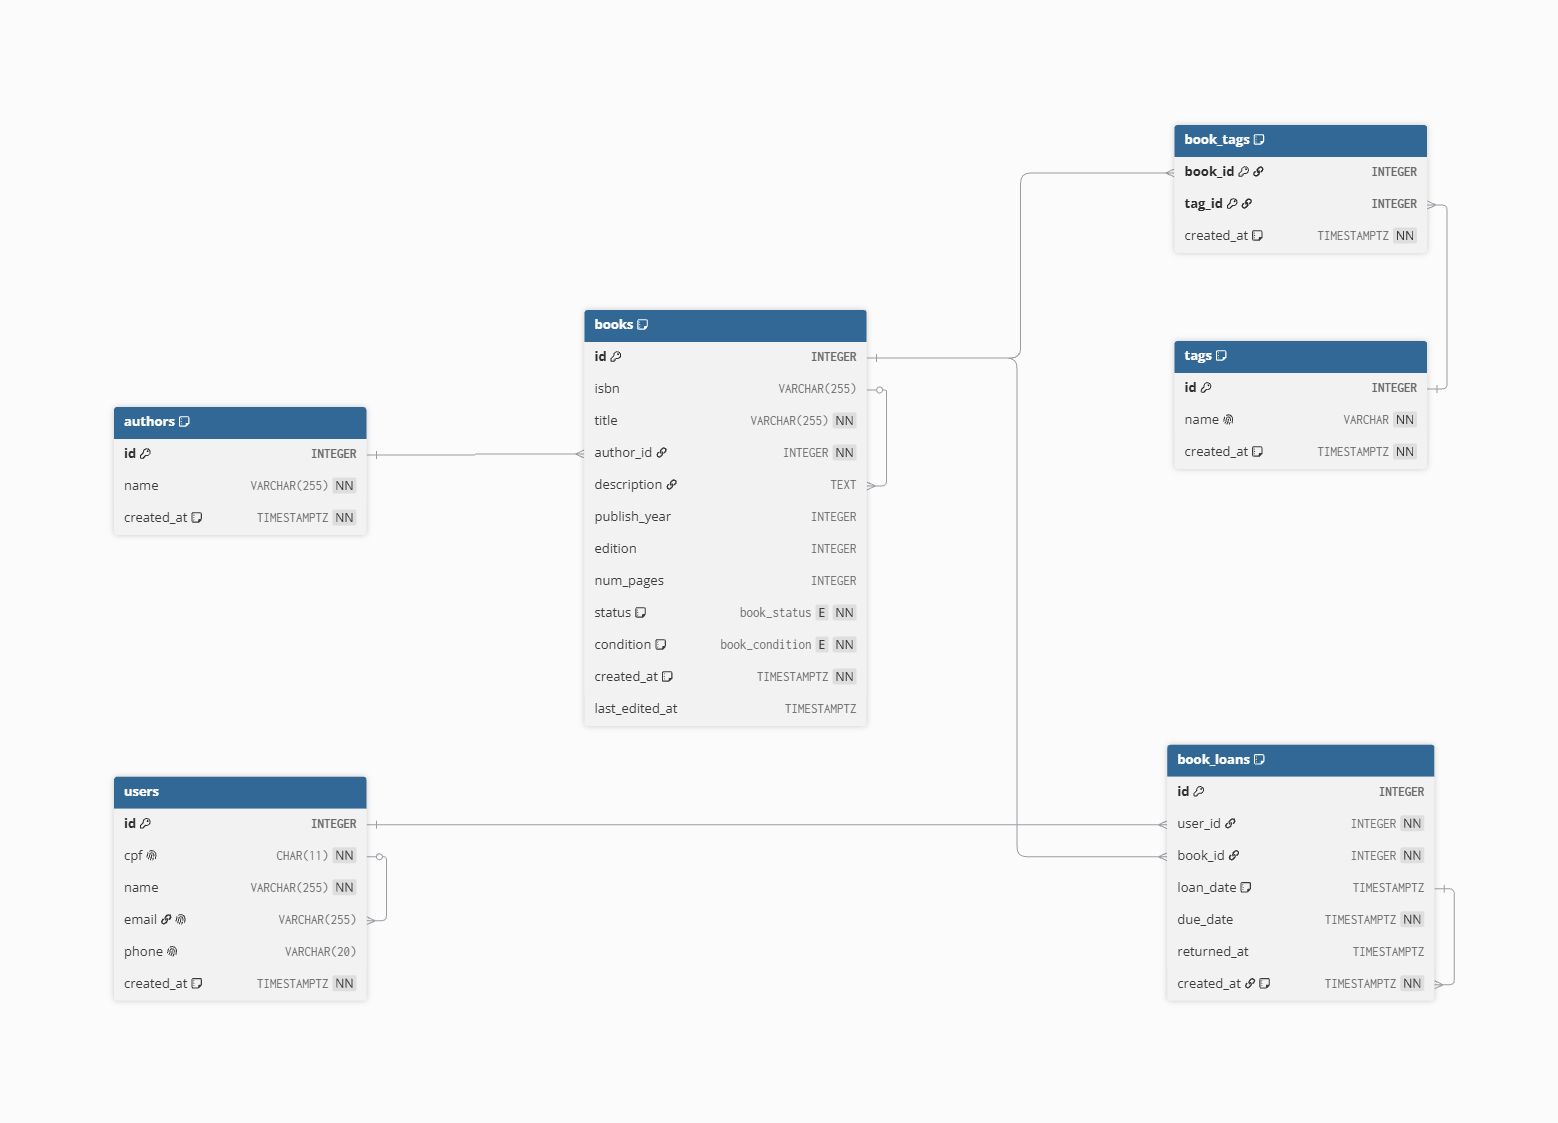
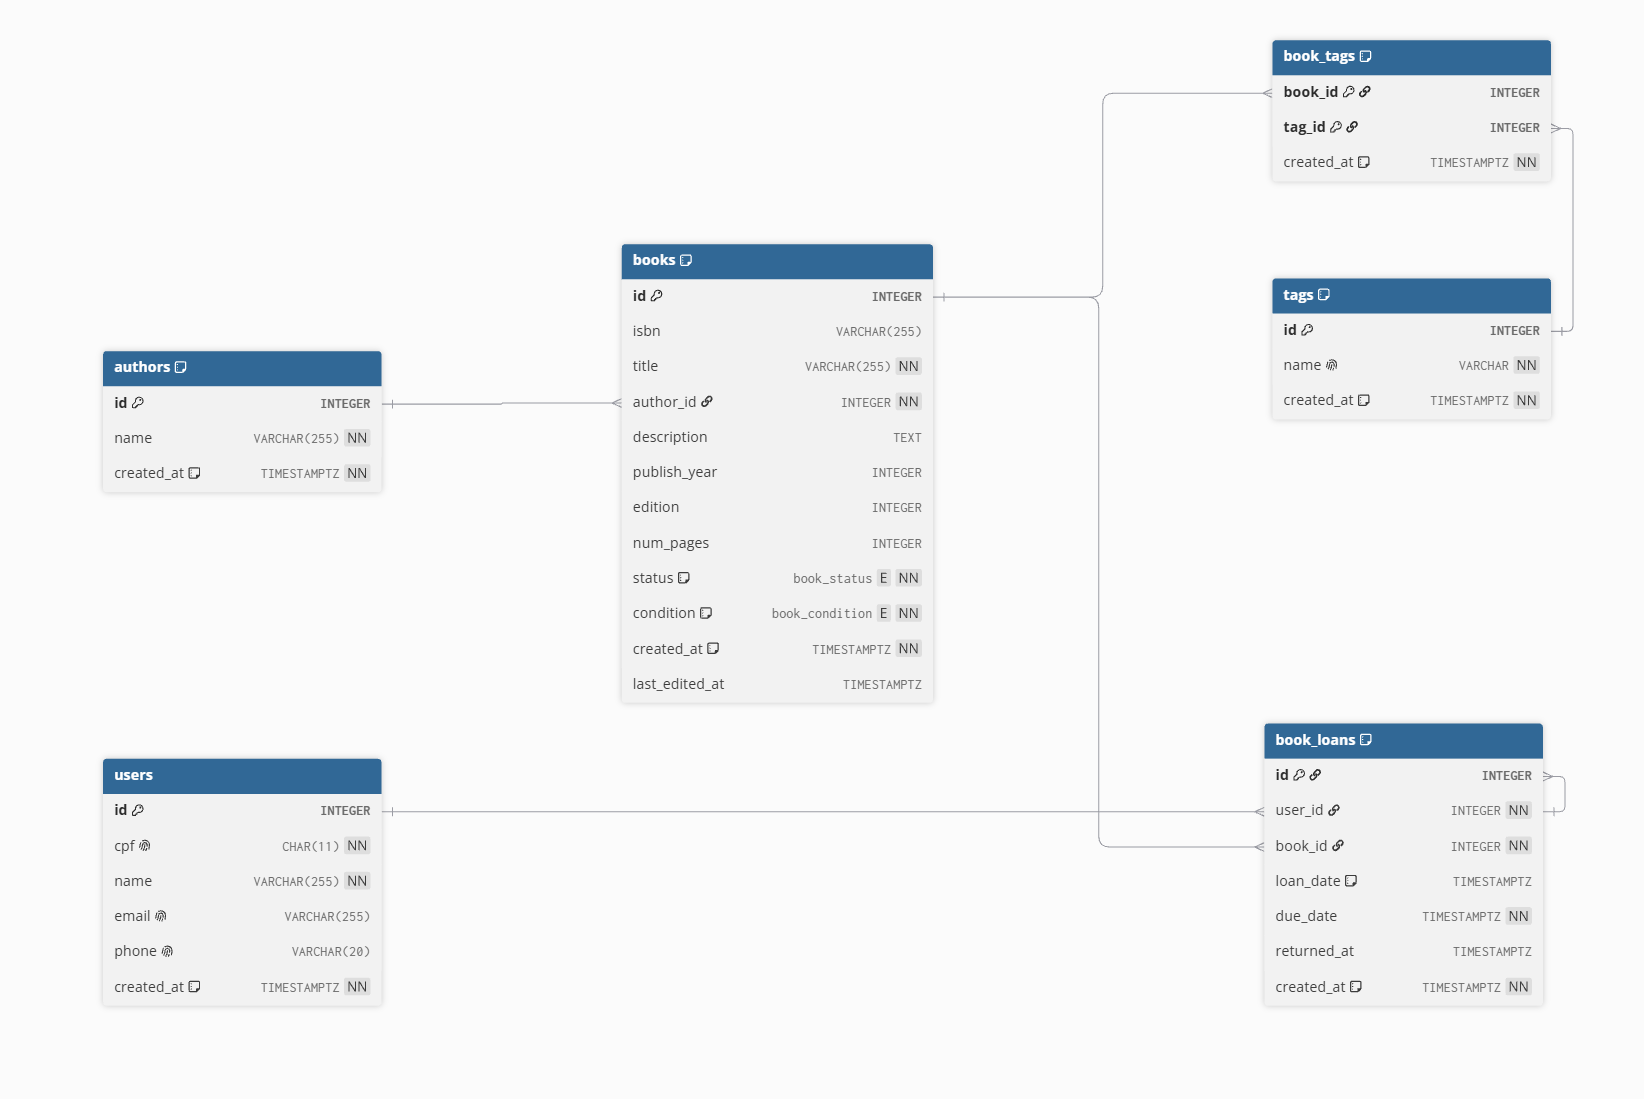
add error display fix

diff --git a/src/services/book.service.ts b/src/services/book.service.ts
@@ -97,23 +97,23 @@ export class BookService {
   async searchByIsbn(
     isbn: string,
     client?: PoolClient
-  ): Promise<BookSearchResult[]> {
+  ): Promise<BookSearchResult[] | null> {
     if (!BookValidator.validateIsbn(isbn)) {
-      throw new BaseException({ cause: 'ISBN inválido' })
+      return null
     }
     return this.bookRepository.searchByIsbn(isbn, client)
   }
 
-  async searchByTitle(title: string): Promise<BookSearchResult[]> {
+  async searchByTitle(title: string): Promise<BookSearchResult[] | null> {
     if (!BookValidator.validateTitle(title)) {
-      throw new BaseException({ cause: 'Título inválido' })
+      return null
     }
     return this.bookRepository.searchByTitle(title)
   }
 
-  async searchByAuthor(author: string): Promise<BookSearchResult[]> {
+  async searchByAuthor(author: string): Promise<BookSearchResult[] | null> {
     if (!BookValidator.validadeAuthor(author)) {
-      throw new BaseException({ cause: 'Autor inválido' })
+      return null
     }
     return this.bookRepository.searchByAuthor(author)
   }
@@ -157,11 +157,9 @@ export class BookService {
           tags.push(tag)
         }
 
-        await this.bookRepository.replaceTags(
-          id,
-          tags.map((tag) => tag.id),
-          client
-        )
+        const tagIds = [...new Set(tags.map((tag) => tag.id))]
+
+        await this.bookRepository.replaceTags(id, tagIds, client)
       }
 
       await client.query('COMMIT')

diff --git a/src/views/books.add.view.ts b/src/views/books.add.view.ts
@@ -92,7 +92,15 @@ export class BooksAddView extends BookFormView {
 
     switch (option.trim().toUpperCase()) {
       case 'C':
-        await this.bookService.add(book)
+        try {
+          await this.bookService.add(book)
+        } catch (err) {
+          if (err instanceof Error) {
+            this.display(err.message)
+          }
+
+          await this.prompt('Pressione ENTER para continuar:')
+        }
         this.display('Livro cadastrado com sucesso!')
         await this.prompt('Pressione ENTER para continuar:')
         this.exit()